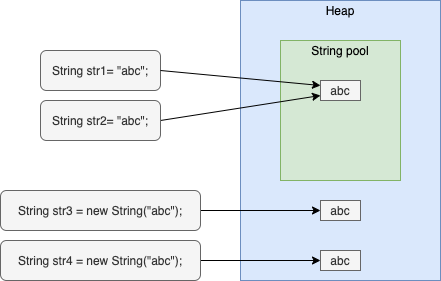
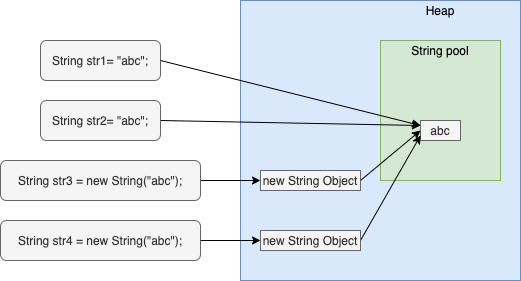
Update string pool

diff --git a/_posts/2021-08-22-string_pool.md b/_posts/2021-08-22-string_pool.md
@@ -11,13 +11,14 @@ source: https://github.com/huypva/string-pool-example
 
 ![StringPool](../assets/images/string_pool.png)
 
-- Biến `String` được tạo bằng toán tử `==` được lưu trữ trong StringPool. Mỗi giá trị nằm trong một vùng nhờ trong String pool. Các biến cùng giá trị tham khảo đến vùng nhờ này.
-Giá trị vùng nhớ này sẽ không bị thay đổi. Việc thay đổi giá trị một biến String sẽ tạo ra vùng nhớ mới chưa giá trị mới.
+- Tạo `String` bằng `String str1 = "abc"`
+JMV sẽ kiểm tra và tạo mới một object nếu chưa có trong String pool.
 
 ```java
 String str1 = "abc";
 String str2 = "abc";
-System.out.println("Compare str1==str2: " + (str1==str2));
+System.out.println("Compare str1==str2: " + (str1==str2)); 
+
 ``` 
 
 ```shell
@@ -26,7 +27,11 @@ $ java -jar string-pool/target/string-pool-0.0.1-SNAPSHOT.jar
 Compare str1==str2: true
 ```
 
-- Biến `String` được tạo bằng toán tử `new` được lưu trữ trong vùng nhờ Heap. Mỗi biến sẽ có giá trị nằm trong vùng các vùng nhớ khác nhau.
+>> return true, str1 và str2 tham khảo đến 1 object trong String constant pool.
+
+- Tạo `String` bằng `String str3 = new String("abc")`
++ Tạo một object trong String pool
++ Tạo thêm một object trong vùng nhớ Heap, và tham khảo đến object trong String pool
 
 ```java
 String str3 = new String("abc");
@@ -37,8 +42,10 @@ System.out.println("Compare str3==str4: " + (str3==str4));
 ```shell
 $ mvn clean package
 $ java -jar string-pool/target/string-pool-0.0.1-SNAPSHOT.jar
-Compare str3==str4: true
+Compare str3==str4: false
 ```
+
+>> return false, bởi vì str3 tham khảo đến object ngoài pool(non-pool).
 
 - So sánh giá trị 2 biến `String` bằng toán tử `equal`
 
